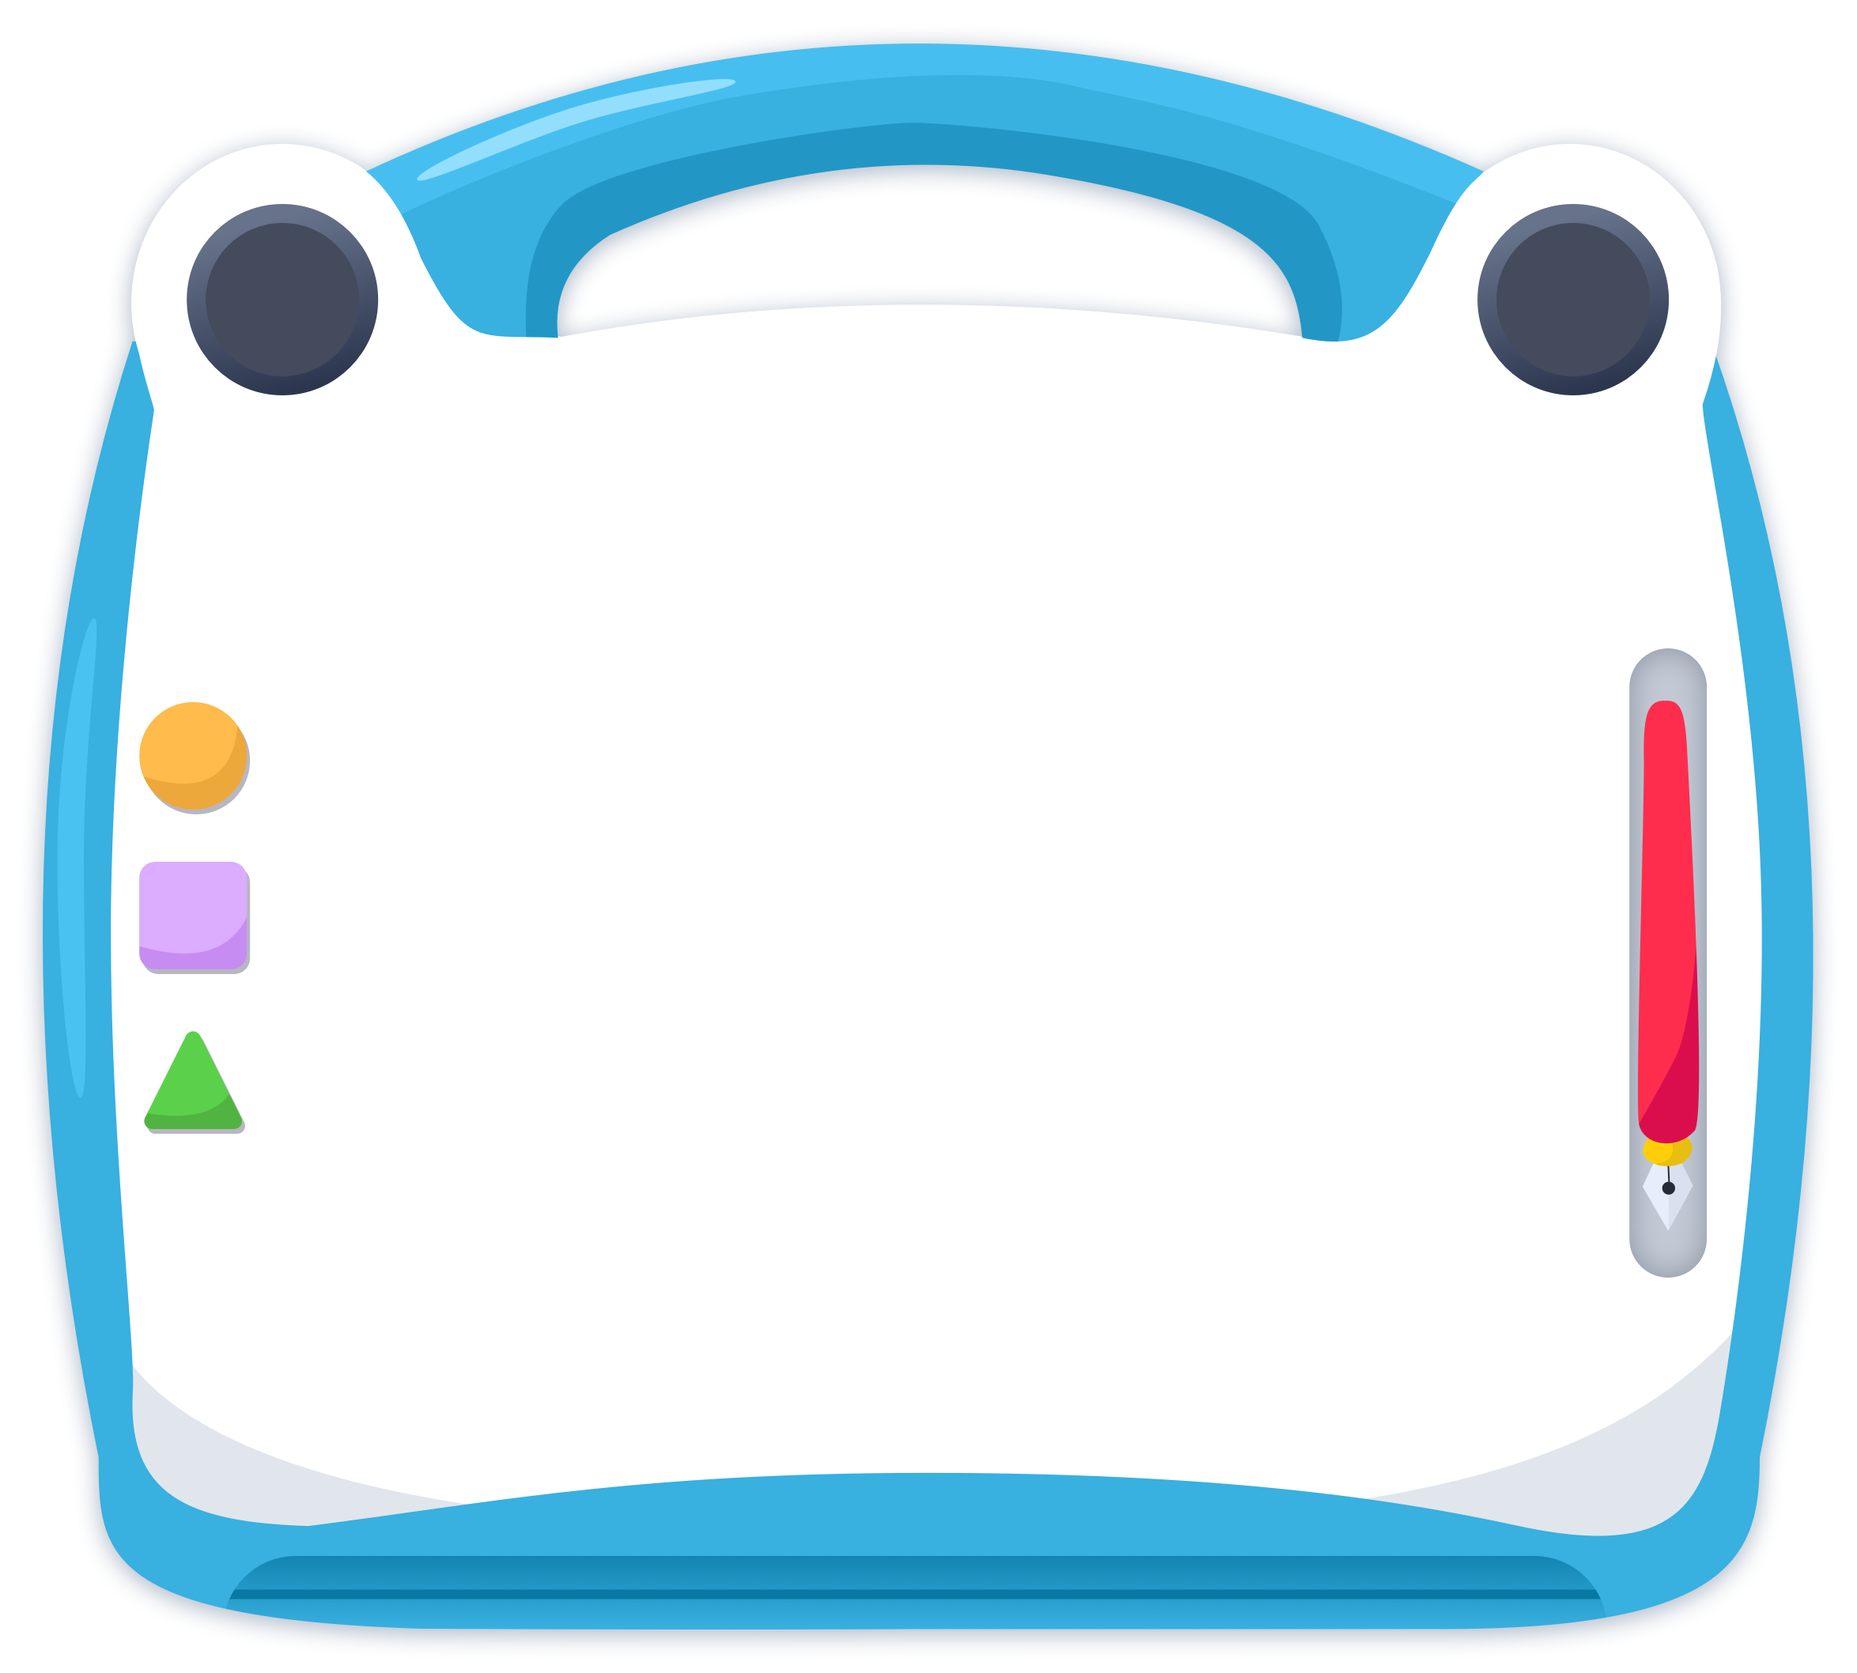
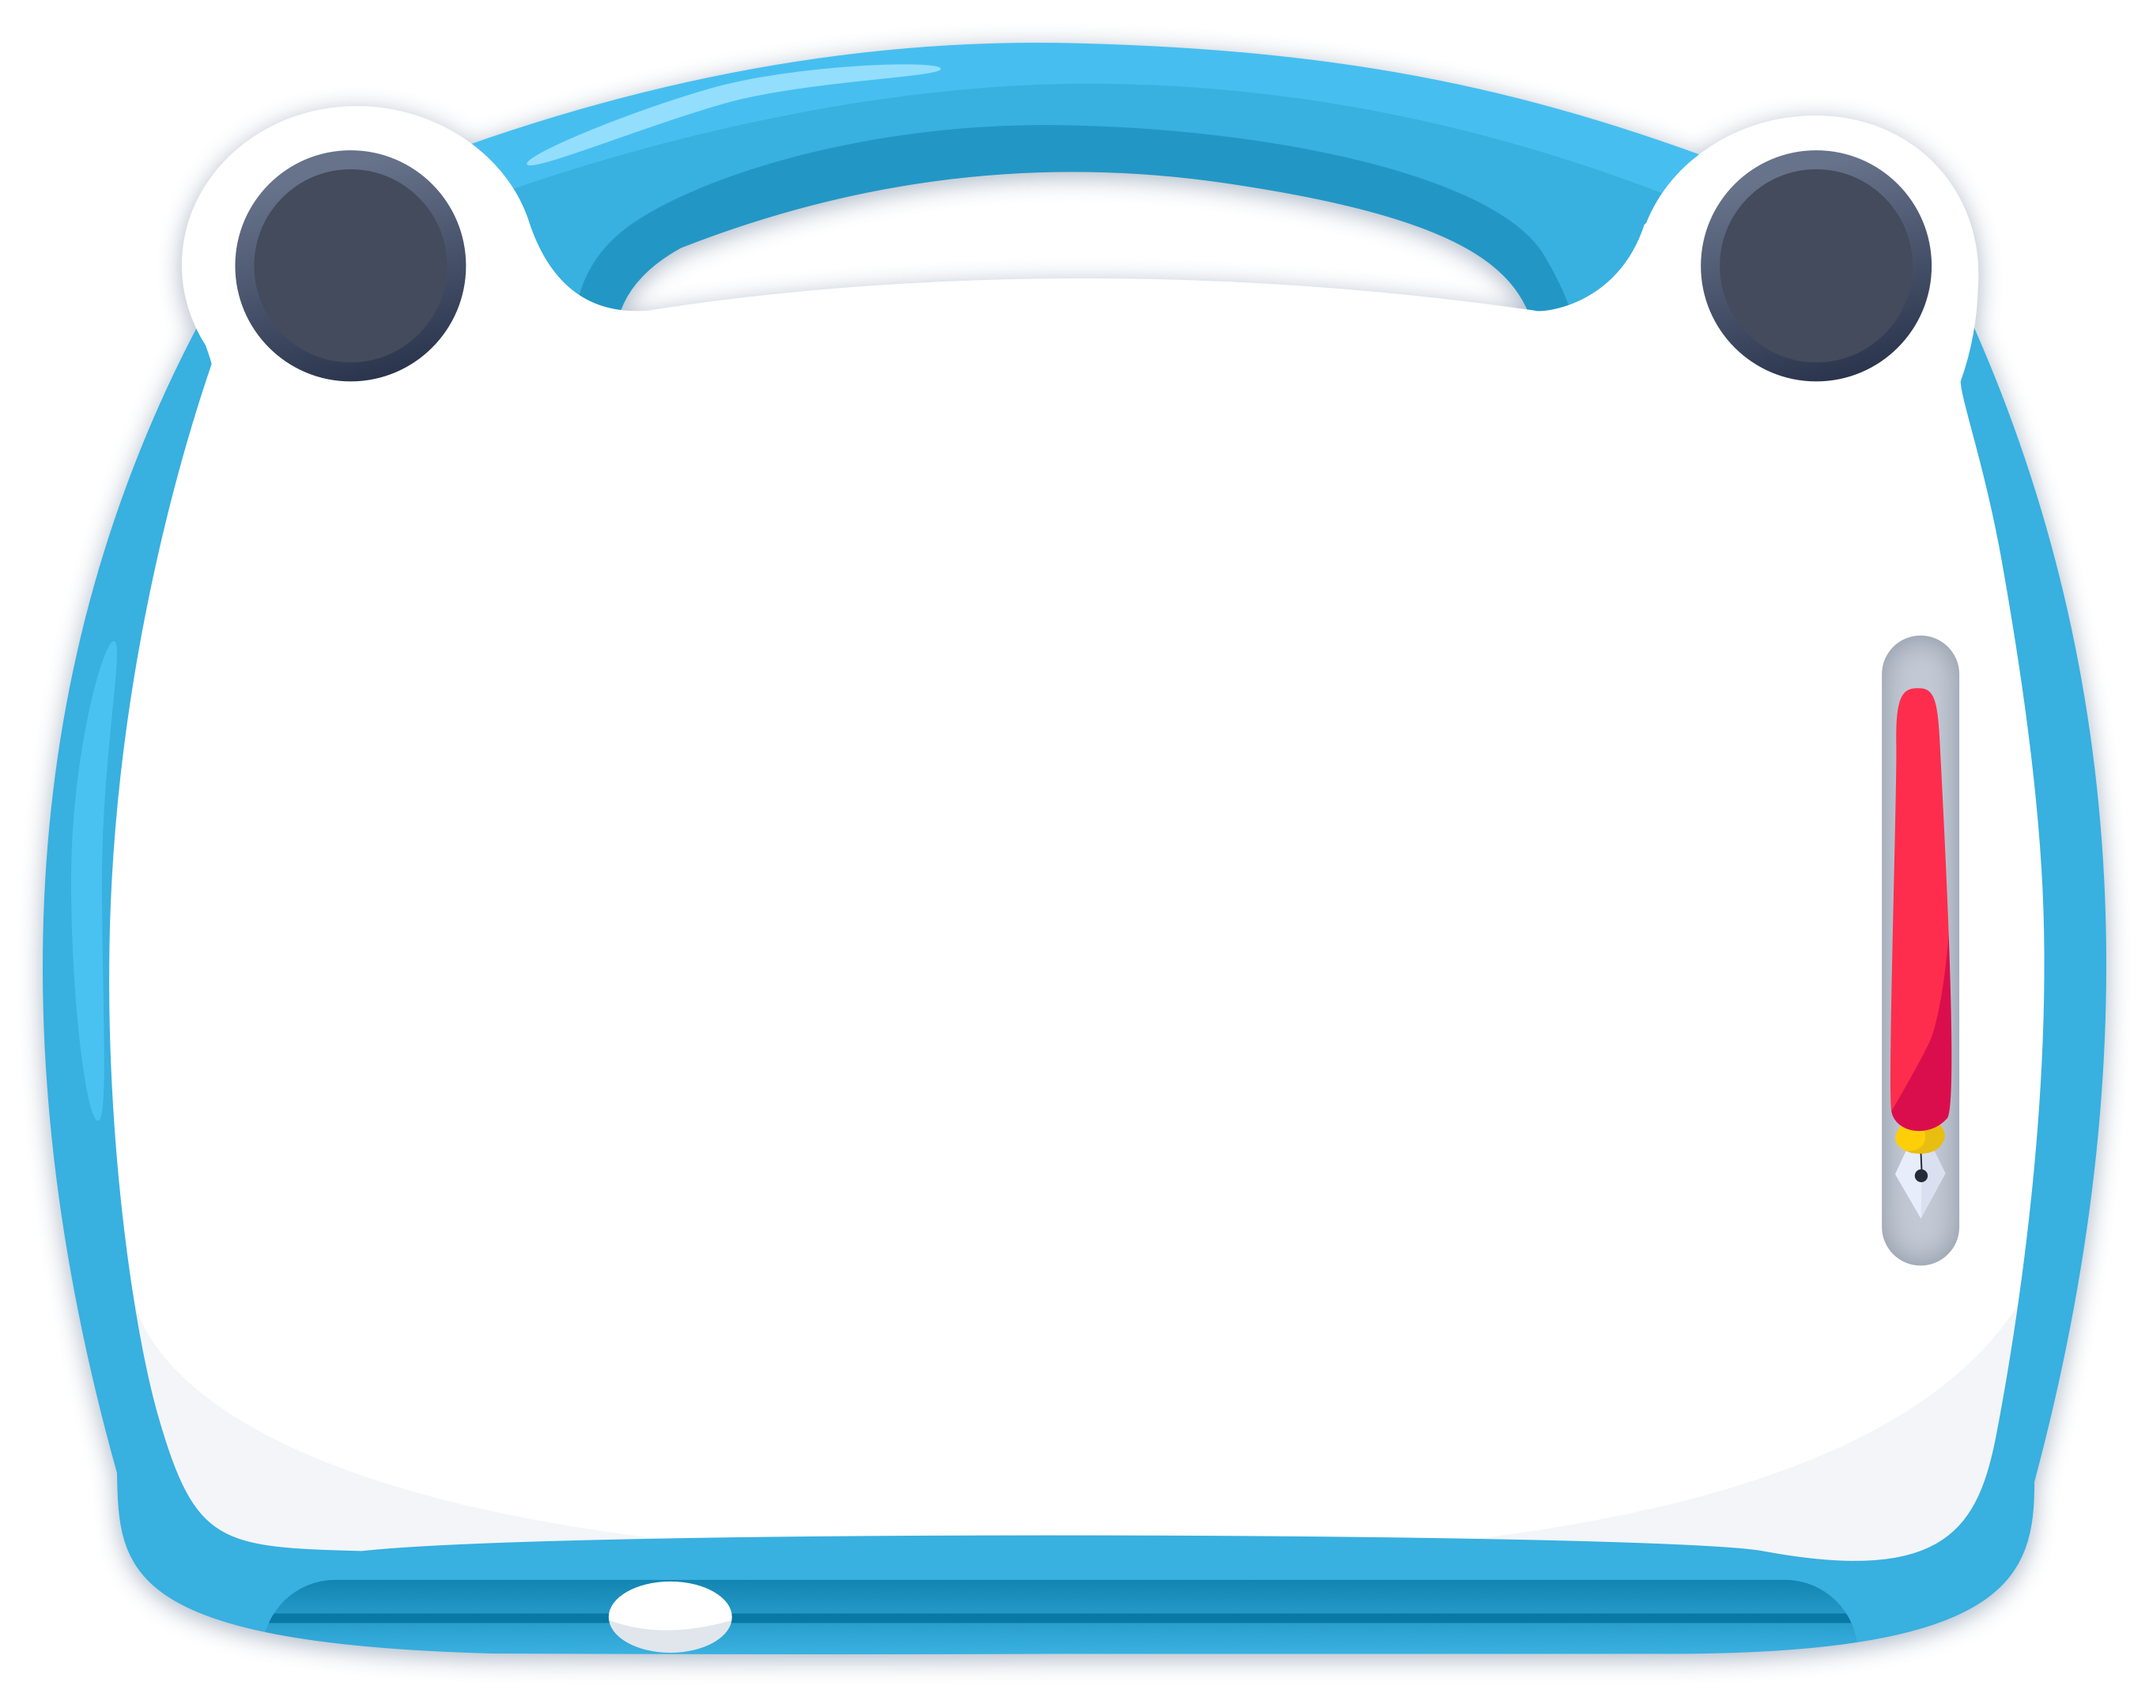
zs_update: relayout

diff --git a/src/components/index.css b/src/components/index.css
@@ -67,26 +67,26 @@ body .p-contain .p-content .p-action .p-tool-classify {
   flex-shrink: 0;
   width: 5rem;
   height: 100%;
-  display: flex;
-  flex-direction: column;
-  align-items: center;
-  justify-content: space-between;
-  padding: 5.75rem 1.2916666667rem;
+  border-top: 2.5rem solid #232c38;
+  border-bottom: 2.5rem solid #232c38;
+  border-radius: 2.5rem;
   font-size: 0.5833333333rem;
   font-family: HannotateSC-W7, HannotateSC;
   font-weight: normal;
   color: #bfc6d4;
-  line-height: 0.8333333333rem;
+  line-height: 1.0416666667rem;
+  overflow-y: scroll;
 }
 body .p-contain .p-content .p-action .p-tool-classify .ptc-item {
   display: flex;
   flex-direction: column;
   align-items: center;
+  margin-top: 0.8333333333rem;
   cursor: pointer;
 }
 body .p-contain .p-content .p-action .p-tool-classify .ptc-item .ptc-item-img {
   width: 1.9166666667rem;
-  height: 1.9166666667rem;
+  height: auto;
 }
 body .p-contain .p-content .p-action .p-tool-classify .ptc-item .ptc-item-text {
   margin-top: 0.5rem;
@@ -113,30 +113,27 @@ body .p-contain .p-content .p-action .p-tool-list {
   overflow-y: scroll;
 }
 body .p-contain .p-content .p-action .p-tool-list .p-tool-item {
+  width: 5.75rem;
   margin-top: 0.125rem;
   margin-bottom: 0.5416666667rem;
   background: #fbfbfc;
   border-radius: 0.8333333333rem;
   border: 0.0416666667rem solid rgba(0, 0, 0, 0);
   cursor: pointer;
+  overflow: hidden;
 }
 body .p-contain .p-content .p-action .p-tool-list .p-tool-item .p-tool-sub-item {
   position: relative;
   display: flex;
   flex-direction: column;
   align-items: center;
-  width: 5.75rem;
-  height: 3.6666666667rem;
   opacity: 0.3;
 }
 body .p-contain .p-content .p-action .p-tool-list .p-tool-item .p-tool-sub-item .p-tool-item-img {
   width: 100%;
   height: auto;
-  margin-top: 0.25rem;
 }
 body .p-contain .p-content .p-action .p-tool-list .p-tool-item .p-tool-sub-item .p-tool-item-text {
-  position: absolute;
-  top: 2.8333333333rem;
   width: 100%;
   height: 0.8333333333rem;
   margin-top: auto;
@@ -252,10 +249,9 @@ body .p-contain .p-content .p-action .p-sub-contain .p-action-contain .p-btn {
   display: flex;
   align-items: center;
   justify-content: center;
-  width: 10.8333333333rem;
   height: 2.2083333333rem;
   margin-top: 0.4166666667rem;
-  background-image: url(./img/button.png);
+  background-image: url(./img/button_a.png);
   background-size: 100% 100%;
   background-repeat: no-repeat;
   font-size: 0.8333333333rem;
@@ -264,6 +260,9 @@ body .p-contain .p-content .p-action .p-sub-contain .p-action-contain .p-btn {
   color: #19202e;
   line-height: 1.1666666667rem;
   cursor: pointer;
+}
+body .p-contain .p-content .p-action .p-sub-contain .p-action-contain .is-drawing {
+  background-image: url(./img/button.png);
 }
 body .p-contain .p-res-content {
   position: relative;
@@ -311,17 +310,16 @@ body .p-contain .p-res-content .p-paper .p-loading .p-loading-text {
 body .p-contain .p-res-content .p-paper .p-img-content {
   position: absolute;
   top: 3%;
-  left: 3%;
+  left: 5%;
   display: flex;
   align-items: center;
-  width: 94%;
+  width: 90%;
   height: 94%;
   z-index: 99;
 }
 body .p-contain .p-res-content .p-paper .p-img-content .el-image {
   width: 100%;
   height: 100%;
-  /* border-radius: 3.9583333333rem; */
 }
 body .p-contain .p-res-content .p-paper .p-img-content .el-image .el-image__inner {
   object-fit: contain;
@@ -341,4 +339,112 @@ body .p-contain .p-res-content .p-paper .p-img-content .p-img-group .el-image {
 body .p-contain .p-res-content .p-paper-nobg {
   background-image: url();
   border-radius: 0;
+}
+body .p-contain .p-res-content .p-color-contain {
+  display: flex;
+  flex-direction: column;
+  align-items: center;
+  position: absolute;
+  top: 35%;
+  left: 8%;
+  width: 2.0833333333rem;
+}
+body .p-contain .p-res-content .p-color-contain .p-color-text {
+  margin-bottom: 1.0416666667rem;
+  font-size: 0.75rem;
+  font-family: HannotateSC-W7, HannotateSC;
+  font-weight: normal;
+  color: #A9B1BC;
+  line-height: 1.0416666667rem;
+  white-space: nowrap;
+}
+body .p-contain .p-res-content .p-color-contain .p-color-bg {
+  display: flex;
+  align-items: center;
+  justify-content: center;
+  width: 2.0833333333rem;
+  height: 2.0833333333rem;
+  margin: 1.0416666667rem 0;
+  cursor: pointer;
+}
+body .p-contain .p-res-content .p-color-contain .p-white {
+  background-image: url(./img/c_white.png);
+  background-size: 100% 100%;
+  background-repeat: no-repeat;
+}
+body .p-contain .p-res-content .p-color-contain .p-blue {
+  background-image: url(./img/c_blue.png);
+  background-size: 100% 100%;
+  background-repeat: no-repeat;
+}
+body .p-contain .p-res-content .p-color-contain .p-yellow {
+  background-image: url(./img/c_yellow.png);
+  background-size: 100% 100%;
+  background-repeat: no-repeat;
+}
+body .p-contain .p-res-content .p-color-contain .p-palette {
+  position: relative;
+}
+body .p-contain .p-res-content .p-color-contain .p-palette .p-palette-box {
+  position: absolute;
+  top: 0;
+  left: 0;
+  width: 100%;
+  height: 100%;
+  background-image: url(./img/c_palette.png);
+  background-size: 100% 100%;
+  background-repeat: no-repeat;
+}
+body .p-contain .p-res-content .p-color-contain .p-palette .p-color-selector {
+  position: absolute;
+  right: 150%;
+  display: grid;
+  grid-template-columns: 33.33% 33.33% 33.33%;
+  background-color: #ffffff;
+  border: 0.4166666667rem solid #ffffff;
+  border-radius: 1.0416666667rem;
+  box-shadow: 0rem 0.125rem 0.6666666667rem -0.25rem rgba(83, 108, 140, 0.5);
+}
+body .p-contain .p-res-content .p-color-contain .p-palette .p-color-selector .c-color-item {
+  width: 1.6666666667rem;
+  height: 1.6666666667rem;
+  margin: 0.2083333333rem;
+  border-radius: 0.8333333333rem;
+}
+body .p-contain .p-res-content .p-color-contain .p-palette .p-color-selector .c-color-item:hover {
+  border: 0.0833333333rem solid #ffffff;
+}
+body .p-contain .p-res-content .p-choose-contain {
+  display: flex;
+  align-items: center;
+  justify-content: center;
+  position: absolute;
+  bottom: 10%;
+  width: 100%;
+  font-size: 0.5833333333rem;
+  font-family: HannotateSC-W7, HannotateSC;
+  font-weight: normal;
+  color: #7B7F80;
+  line-height: 0.8333333333rem;
+}
+body .p-contain .p-res-content .p-choose-contain .p-choose-groue {
+  display: flex;
+}
+body .p-contain .p-res-content .p-choose-contain .p-choose-groue .p-c-item {
+  display: flex;
+  align-items: center;
+  justify-content: center;
+  width: 2.5416666667rem;
+  height: 1.8333333333rem;
+  margin: 0 0.3333333333rem;
+  background-image: url(./img/btn_bg.png);
+  background-size: 100% 100%;
+  background-repeat: no-repeat;
+  cursor: pointer;
+}
+body .p-contain .p-res-content .p-choose-contain .p-choose-groue .is-selected {
+  color: #17b2ef;
+}
+body .p-contain .p-res-content .p-choose-contain .p-choose-groue:nth-child(1) {
+  margin-right: 1.6666666667rem;
 }

diff --git a/src/components/AppIndex.vue b/src/components/AppIndex.vue
@@ -56,7 +56,7 @@
               placeholder="请输入描述词语…" v-model="inputDesc"
             ></textarea>
             <div class="p-voice" @click="startSpeechRecognition()"></div>
-            <div class="p-btn" @click="draw()" :disabled="drawing">
+            <div class="p-btn" :class="drawing?'is-drawing':''" @click="draw()" :disabled="drawing">
               <div>开始绘画</div>
             </div>
           </div>
@@ -74,6 +74,39 @@
         <div class="p-img-content">
           <!-- 返回结果为1张 -->
           <el-image :src="imgUrl" :preview-src-list="[imgUrl]"></el-image>
+        </div>
+      </div>
+
+      <div class="p-color-contain">
+        <div class="p-color-text">背景色</div>
+        <div class="p-color-bg p-white"></div>
+        <div class="p-color-bg p-blue"></div>
+        <div class="p-color-bg p-yellow"></div>
+        <div class="p-color-bg p-palette">
+          <div class="p-palette-box" @click="showColor = !showColor"></div>
+          <div v-show="showColor" class="p-color-selector">
+            <div
+              class="c-color-item"
+              v-for="(e, i) in 12"
+              :key="i"
+              :style="'background:' + color[i]"
+              @click="showColor = !showColor"
+            ></div>
+          </div>
+        </div>
+      </div>
+      <div class="p-choose-contain">
+        <div class="p-choose-groue">
+          <div class="p-c-item is-selected">图片1</div>
+          <div class="p-c-item">图片2</div>
+          <div class="p-c-item">图片3</div>
+          <div class="p-c-item">图片4</div>
+        </div>
+        <div class="p-choose-groue">
+          <div class="p-c-item">V1</div>
+          <div class="p-c-item">V2</div>
+          <div class="p-c-item">V3</div>
+          <div class="p-c-item">V4</div>
         </div>
       </div>
     </div>
@@ -100,7 +133,9 @@ export default {
       selectList: [],
       subMenu: [],
       showSubMenu: false,
-      menuList: []
+      menuList: [],
+      showColor: false,
+      color: ["#e2bc34","#fa9435","#ff6a45","#f1465c","#d33072","#a52e82","#2c58b6","#0079d7","#59b27d","#f4f7a4","#cecece","#000000"]
     }
   },
   computed:{
